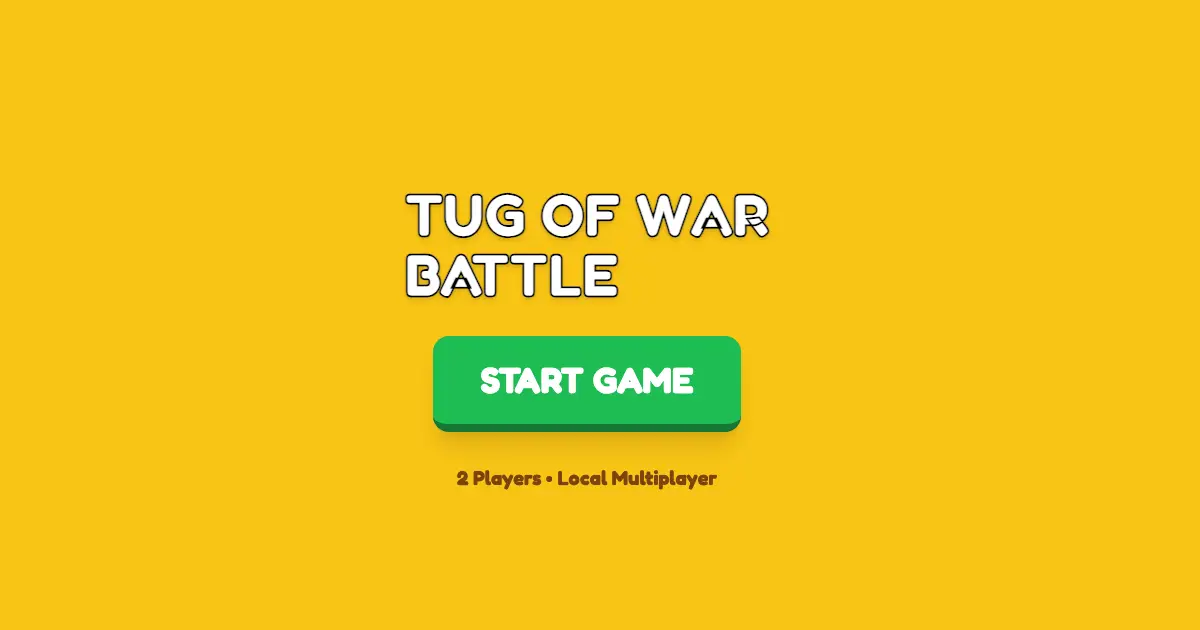
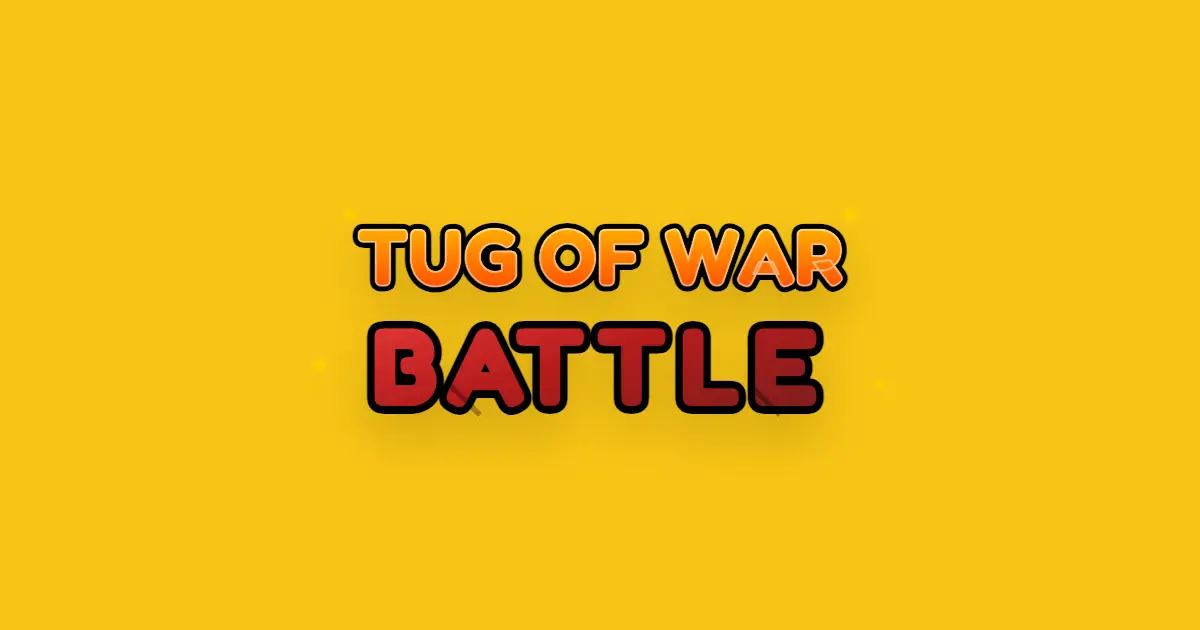
change theme of first page

Changed region(s): [[0.2775, 0.3016, 0.7092, 0.6937], [0.37, 0.7238, 0.6167, 0.7841]]

diff --git a/index.html b/index.html
@@ -12,6 +12,8 @@
     <meta property="og:title" content="Math Tug-of-War Battle" />
     <meta property="og:description"
         content="A real-time local multiplayer math battle! Pull the rope by solving math problems faster than your opponent." />
+    <meta property="og:alt"
+        content="A real-time local multiplayer math battle! Pull the rope by solving math problems faster than your opponent." />
     <meta property="og:type" content="website" />
     <meta property="og:image" content="assets/og.webp" />
     <meta property="og:url" content="https://tug-of-war-math.pages.dev/" />
@@ -287,13 +289,78 @@
 
     <!-- Start Screen -->
     <div id="start-screen" class="fixed inset-0 bg-yellow-400 flex flex-col items-center justify-center z-50">
-        <h1 class="text-6xl font-bold text-white drop-shadow-md mb-8 stroke-black"
-            style="-webkit-text-stroke: 2px black;">TUG OF WAR<br>BATTLE</h1>
+        <!-- Exciting SVG Logo -->
+        <svg width="600" height="300" viewBox="0 0 600 300"
+            class="mb-8 drop-shadow-2xl hover:scale-105 transition-transform duration-300">
+            <defs>
+                <!-- Gradients -->
+                <linearGradient id="textGradient" x1="0%" y1="0%" x2="0%" y2="100%">
+                    <stop offset="0%" style="stop-color:#FFD700;stop-opacity:1" /> <!-- Gold -->
+                    <stop offset="50%" style="stop-color:#FF8C00;stop-opacity:1" /> <!-- Dark Orange -->
+                    <stop offset="100%" style="stop-color:#FF4500;stop-opacity:1" /> <!-- Red Orange -->
+                </linearGradient>
+                <linearGradient id="battleGradient" x1="0%" y1="0%" x2="100%" y2="100%">
+                    <stop offset="0%" style="stop-color:#ef4444;stop-opacity:1" /> <!-- Red -->
+                    <stop offset="50%" style="stop-color:#b91c1c;stop-opacity:1" /> <!-- Dark Red -->
+                    <stop offset="100%" style="stop-color:#7f1d1d;stop-opacity:1" /> <!-- Very Dark Red -->
+                </linearGradient>
+
+                <!-- Filters for 3D/Glow effect -->
+                <filter id="glow" x="-20%" y="-20%" width="140%" height="140%">
+                    <feGaussianBlur stdDeviation="3" result="blur" />
+                    <feComposite in="SourceGraphic" in2="blur" operator="over" />
+                </filter>
+                <filter id="hardShadow" x="-20%" y="-20%" width="140%" height="140%">
+                    <feDropShadow dx="4" dy="4" stdDeviation="0" flood-color="black" flood-opacity="1" />
+                </filter>
+            </defs>
+
+            <!-- TUG OF WAR -->
+            <g transform="translate(300, 120)">
+                <!-- Shadow/Stroke Layer -->
+                <text x="0" y="0" text-anchor="middle" font-family="'Fredoka', sans-serif" font-weight="900"
+                    font-size="80" fill="none" stroke="black" stroke-width="12" stroke-linejoin="round"
+                    transform="scale(1, 1)">TUG OF WAR</text>
+                <!-- Main Text Layer -->
+                <text x="0" y="0" text-anchor="middle" font-family="'Fredoka', sans-serif" font-weight="900"
+                    font-size="80" fill="url(#textGradient)" filter="url(#hardShadow)" transform="scale(1, 1)">TUG OF
+                    WAR</text>
+                <!-- Internal Highlight -->
+                <text x="0" y="0" text-anchor="middle" font-family="'Fredoka', sans-serif" font-weight="900"
+                    font-size="80" fill="url(#textGradient)" stroke="white" stroke-width="2" stroke-opacity="0.5"
+                    transform="scale(1, 1)">TUG OF WAR</text>
+            </g>
+
+            <!-- BATTLE (Heavier, blockier) -->
+            <g transform="translate(300, 240)">
+                <!-- Backing Shape (Optional, maybe just text) -->
+
+                <!-- Shadow/Stroke -->
+                <text x="0" y="0" text-anchor="middle" font-family="'Fredoka', sans-serif" font-weight="900"
+                    font-size="110" fill="none" stroke="black" stroke-width="16" stroke-linejoin="round"
+                    style="letter-spacing: 0.1em;">BATTLE</text>
+                <!-- Main Fill -->
+                <text x="0" y="0" text-anchor="middle" font-family="'Fredoka', sans-serif" font-weight="900"
+                    font-size="110" fill="url(#battleGradient)" filter="url(#hardShadow)"
+                    style="letter-spacing: 0.1em;">BATTLE</text>
+                <!-- Cracks/Texture could go here -->
+                <path d="M150,-20 L180,10 M-150,-20 L-120,10" stroke="black" stroke-width="5" opacity="0.3" />
+            </g>
+
+            <!-- Dynamic Elements (Sparks/Stars) -->
+            <g fill="#FFD700" filter="url(#glow)">
+                <circle cx="50" cy="50" r="5" class="animate-pulse" />
+                <circle cx="550" cy="50" r="8" class="animate-pulse" style="animation-duration: 1.5s" />
+                <circle cx="20" cy="200" r="6" class="animate-pulse" style="animation-duration: 0.8s" />
+                <circle cx="580" cy="220" r="4" class="animate-pulse" style="animation-duration: 1.2s" />
+            </g>
+        </svg>
         <button id="start-btn"
-            class="bg-green-500 hover:bg-green-600 text-white text-4xl font-bold py-6 px-12 rounded-2xl border-b-8 border-green-700 active:translate-y-2 active:border-b-0 shadow-xl transition-all">
+            class="bg-gradient-to-r from-orange-500 to-red-600 hover:from-orange-600 hover:to-red-700 text-white text-4xl font-bold py-6 px-12 rounded-2xl border-b-8 border-red-800 active:translate-y-2 active:border-b-0 shadow-xl transition-all transform hover:scale-105">
             START GAME
         </button>
         <p class="mt-8 text-xl text-yellow-800 font-bold">2 Players • Local Multiplayer</p>
+        <div class="absolute bottom-4 right-4 font-bold text-sm">v.1.0.0</div>
     </div>
 
     <!-- Winner Overlay (Dialog Style) -->
